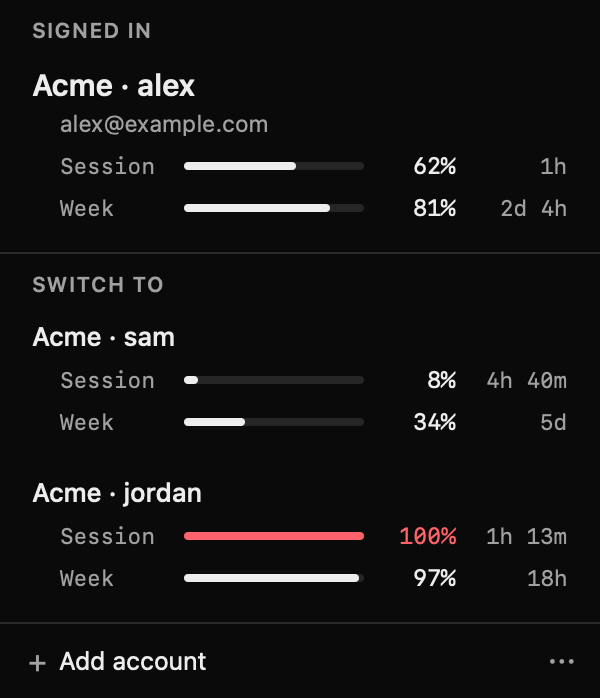
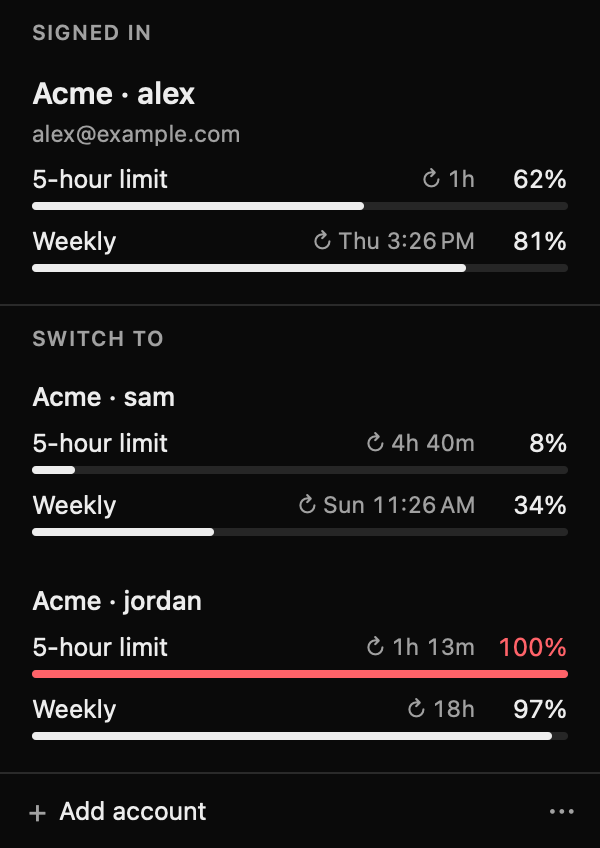
feat: lay out each limit with its reset above its bar, on one spacing scale
The panel writes each limit's name, when it resets and the percent used on
one line with the bar under it, and every account block uses the same four
spacing values. A reset within a day shows the time until it, a later one
the weekday and time.

diff --git a/Sources/ClaudeDesktopBaton/PanelView.swift b/Sources/ClaudeDesktopBaton/PanelView.swift
@@ -49,13 +49,13 @@ struct PanelView: View {
             if let signedIn = state.signedIn {
                 SectionLabel(text: "Signed in", palette: p)
                 AccountBlock(row: signedIn, actions: actions, prominent: true)
-                    .padding(.horizontal, 6).padding(.bottom, 6)
+                    .padding(.horizontal, PanelSpacing.edge).padding(.bottom, PanelSpacing.edge)
                 Rectangle().fill(p.border).frame(height: 1)
             }
             if !state.switchTo.isEmpty {
                 SectionLabel(text: "Switch to", palette: p)
             }
-            VStack(spacing: 2) {
+            VStack(spacing: PanelSpacing.tight) {
                 ForEach(state.switchTo) { row in
                     AccountBlock(row: row, actions: actions)
                 }
@@ -65,8 +65,8 @@ struct PanelView: View {
                         .frame(maxWidth: .infinity, alignment: .leading).padding(10)
                 }
             }
-            .padding(.horizontal, 6)
-            .padding(.bottom, 6)
+            .padding(.horizontal, PanelSpacing.edge)
+            .padding(.bottom, PanelSpacing.edge)
             if let update {
                 Rectangle().fill(p.border).frame(height: 1)
                 updateRow(update, p)
@@ -186,8 +186,21 @@ struct SectionLabel: View {
             .font(.system(size: 10.5, weight: .semibold)).tracking(0.6)
             .foregroundStyle(palette.muted)
             .frame(maxWidth: .infinity, alignment: .leading)
-            .padding(.horizontal, 16).padding(.top, 9).padding(.bottom, 2)
+            .padding(.horizontal, PanelSpacing.edge + PanelSpacing.inset).padding(.top, PanelSpacing.inset).padding(.bottom, PanelSpacing.tight)
     }
+}
+
+/// The panel's spacing. Every account block uses these, so the signed-in account and the others
+/// differ only in the size of the name.
+enum PanelSpacing {
+    /// The panel's edge.
+    static let edge: CGFloat = 6
+    /// Inside an account block, on every side.
+    static let inset: CGFloat = 10
+    /// Between a limit's text and its bar, a name and its email, and one block and the next.
+    static let tight: CGFloat = 4
+    /// Between a name and the first limit, and between limits.
+    static let gap: CGFloat = 8
 }
 
 struct AccountBlock: View {
@@ -199,7 +212,7 @@ struct AccountBlock: View {
 
     var body: some View {
         let p = Palette(scheme)
-        VStack(alignment: .leading, spacing: 7) {
+        VStack(alignment: .leading, spacing: 0) {
             HStack(spacing: 8) {
                 if row.isTarget { lead(p) }
                 Text(row.name).font(.system(size: prominent ? 15 : 13, weight: prominent ? .semibold : .medium))
@@ -216,13 +229,13 @@ struct AccountBlock: View {
                 Spacer(minLength: 6)
             }
             if prominent, let email = row.email {
-                Text(email).font(.system(size: 11.5)).foregroundStyle(p.muted).lineLimit(1).padding(.leading, 14).padding(.top, -4)
+                Text(email).font(.system(size: 11.5)).foregroundStyle(p.muted).lineLimit(1)
+                    .padding(.top, PanelSpacing.tight)
             }
-            meter("Session", row.session, p)
-            meter("Week", row.week, p)
+            limit("5-hour limit", row.session, p).padding(.top, PanelSpacing.gap)
+            limit("Weekly", row.week, p).padding(.top, PanelSpacing.gap)
         }
-        .padding(.vertical, 9)
-        .padding(.horizontal, 10)
+        .padding(PanelSpacing.inset)
         .background(RoundedRectangle(cornerRadius: 8).fill(hovering && !row.isCurrent && !row.isDisabled ? p.hover : .clear))
         .contentShape(Rectangle())
         .onHover { hovering = $0 }
@@ -239,9 +252,20 @@ struct AccountBlock: View {
         }
     }
 
-    private func meter(_ label: String, _ meter: Meter, _ p: Palette) -> some View {
-        HStack(spacing: 8) {
-            Text(label).font(.system(size: 11, design: .monospaced)).foregroundStyle(p.muted).frame(width: 54, alignment: .leading)
+    /// The limit's name, when it resets and the percent used on one line; its bar underneath.
+    private func limit(_ label: String, _ meter: Meter, _ p: Palette) -> some View {
+        VStack(alignment: .leading, spacing: PanelSpacing.tight) {
+            HStack(spacing: 8) {
+                Text(label).font(.system(size: 12.5)).lineLimit(1)
+                Spacer(minLength: 6)
+                if let reset = meter.reset {
+                    Text("↻ \(reset)").font(.system(size: 11.5)).monospacedDigit().foregroundStyle(p.muted).lineLimit(1)
+                }
+                // A fixed width, so every percent ends at the same place whatever the reset text is.
+                Text(meter.text).font(.system(size: 12.5)).monospacedDigit()
+                    .foregroundStyle(meter.atLimit ? p.danger : p.ink)
+                    .frame(width: 38, alignment: .trailing)
+            }
             GeometryReader { geometry in
                 ZStack(alignment: .leading) {
                     Capsule().fill(p.track)
@@ -249,16 +273,7 @@ struct AccountBlock: View {
                 }
             }
             .frame(height: 4)
-            Text(meter.text).font(.system(size: 11.5, design: .monospaced)).monospacedDigit()
-                .foregroundStyle(meter.atLimit ? p.danger : p.ink)
-                .frame(width: 38, alignment: .trailing)
-            // Time until this limit resets; the column keeps its width so every bar ends at the same place.
-            Text(meter.reset ?? "").font(.system(size: 11, design: .monospaced)).monospacedDigit()
-                .foregroundStyle(p.muted).lineLimit(1)
-                .frame(width: 48, alignment: .trailing)
-                .help(meter.reset.map { "\(label) resets in \($0)" } ?? "")
         }
-        .padding(.leading, 14)
     }
 }
 

diff --git a/Sources/BatonCore/PanelState.swift b/Sources/BatonCore/PanelState.swift
@@ -22,7 +22,7 @@ public struct Meter: Equatable, Sendable {
     public let fraction: Double
     public let text: String
     public let atLimit: Bool
-    /// Time until this limit resets, "2d 4h"; nil when unknown.
+    /// When this limit resets, as `UsageText.resetLabel` writes it; nil when unknown or already past.
     public var reset: String?
     public init(fraction: Double, text: String, atLimit: Bool, reset: String? = nil) {
         self.fraction = fraction; self.text = text; self.atLimit = atLimit; self.reset = reset
@@ -149,10 +149,14 @@ public struct PanelState: Equatable, Sendable {
         case .adding: busy = true
         }
 
-        func meter(_ bucket: Usage.Bucket?) -> Meter {
+        func meter(_ bucket: Usage.Bucket?, weekly: Bool = false) -> Meter {
             guard let bucket else { return Meter(fraction: 0, text: "—", atLimit: false) }
             return Meter(fraction: bucket.used / 100, text: UsageText.percent(bucket.used), atLimit: bucket.isAtLimit,
-                         reset: bucket.resetsAt.flatMap { $0 > now ? UsageText.until($0, from: now) : nil })
+                         reset: bucket.resetsAt.flatMap { date -> String? in
+                             guard date > now else { return nil }
+                             // The Session limit is at most five hours away; only the Week one can be days away.
+                             return weekly ? UsageText.resetLabel(date, from: now) : UsageText.until(date, from: now)
+                         })
         }
         func when(_ date: Date?) -> String {
             guard let date else { return "unknown" }
@@ -170,7 +174,7 @@ public struct PanelState: Equatable, Sendable {
             return AccountRow(id: account.accountId, name: names[account.accountId] ?? "Account \(account.accountId.prefix(8))",
                               isCurrent: account.accountId == current?.account,
                               isTarget: account.accountId == target, isDisabled: busy,
-                              session: meter(shown?.session), week: meter(shown?.week),
+                              session: meter(shown?.session), week: meter(shown?.week, weekly: true),
                               failureReason: entry?.failure?.reason,
                               tooltip: tooltip.joined(separator: "\n"), email: account.email,
                               isCLI: cli?.identity.map { $0.account == account.accountId && $0.org == account.orgId } ?? false)

diff --git a/Tests/BatonCoreTests/UsageTests.swift b/Tests/BatonCoreTests/UsageTests.swift
@@ -89,4 +89,17 @@ struct UsageTests {
         #expect(UsageSchedule.isDue(lastAttempt: now.addingTimeInterval(-61), now: now, panelOpening: true))
         #expect(!UsageSchedule.isDue(lastAttempt: now.addingTimeInterval(-30), now: now, panelOpening: true))
     }
+
+    // The panel's reset text: the time until it within a day, the weekday and time beyond that.
+    @Test func aResetWithinADayShowsTheTimeUntilItAndLaterOnesTheWeekdayAndTime() {
+        let now = Date(timeIntervalSince1970: 1_793_000_000)   // Monday 2026-10-26 07:33 UTC
+        let utc = TimeZone(identifier: "UTC")!, en = Locale(identifier: "en_US")
+
+        #expect(UsageText.resetLabel(now.addingTimeInterval(72 * 60), from: now, locale: en, timeZone: utc) == "1h 12m")
+        #expect(UsageText.resetLabel(now.addingTimeInterval(23 * 3600 + 59 * 60), from: now, locale: en, timeZone: utc) == "23h 59m")
+        let later = UsageText.resetLabel(now.addingTimeInterval(4 * 86_400), from: now, locale: en, timeZone: utc)
+        #expect(later.hasPrefix("Fri"))
+        #expect(later.contains("7:33"))
+        #expect(UsageText.resetLabel(now.addingTimeInterval(86_400), from: now, locale: en, timeZone: utc).hasPrefix("Tue"))
+    }
 }

diff --git a/Tests/BatonCoreTests/PanelStateTests.swift b/Tests/BatonCoreTests/PanelStateTests.swift
@@ -41,7 +41,8 @@ struct PanelStateTests {
         #expect(rows.map(\.name) == ["Acme · alex", "Acme · sam", "Acme · jordan"])
         #expect(rows.map(\.isCurrent) == [true, false, false])
         #expect(rows[0].session == Meter(fraction: 0.62, text: "62%", atLimit: false, reset: "1h"))
-        #expect(rows[0].week == Meter(fraction: 0.81, text: "81%", atLimit: false, reset: "1d"))
+        #expect(rows[0].week == Meter(fraction: 0.81, text: "81%", atLimit: false,
+                                      reset: UsageText.resetLabel(now.addingTimeInterval(86_400), from: now)))
     }
 
     // AC8: a reached limit turns red and shows when it resets.
@@ -62,7 +63,7 @@ struct PanelStateTests {
         let rows = state(usage: entries).rows
 
         #expect(rows[0].session.reset == nil)
-        #expect(rows[0].week.reset == "2d 4h")
+        #expect(rows[0].week.reset == UsageText.resetLabel(now.addingTimeInterval(2 * 86_400 + 4 * 3600), from: now))
         #expect(rows[1].session.reset == nil)
         #expect(rows[1].week.reset == nil)
     }

diff --git a/Sources/BatonCore/Usage.swift b/Sources/BatonCore/Usage.swift
@@ -46,6 +46,13 @@ public enum UsageText {
         return "\(Int(used.rounded()))%"
     }
 
+    /// When a reset happens, for the panel: the time until it within a day ("1h 12m"), otherwise the
+    /// weekday and time ("Thu 11:00 AM"), which is easier to read for a reset days away.
+    public static func resetLabel(_ date: Date, from now: Date, locale: Locale = .current, timeZone: TimeZone = .current) -> String {
+        guard date.timeIntervalSince(now) >= 24 * 60 * 60 else { return until(date, from: now) }
+        return date.formatted(Date.FormatStyle(locale: locale, timeZone: timeZone).weekday(.abbreviated).hour().minute())
+    }
+
     /// Time until a reset: "1h 12m", "13m", "2d 2h".
     public static func until(_ date: Date, from now: Date) -> String {
         let minutes = Int((date.timeIntervalSince(now) / 60).rounded(.up))

diff --git a/README.md b/README.md
@@ -12,7 +12,7 @@ account you switch to, like passing a baton.
 <p align="center">
   <picture>
     <source media="(prefers-color-scheme: dark)" srcset="docs/images/panel-dark.png">
-    <img src="docs/images/panel-light.png" alt="The menu bar panel: the signed-in account on top with its email, and two other accounts below, each with Session and Week usage bars, the percent used, and the time until each limit resets; one account's session limit is reached and shown in red." width="300">
+    <img src="docs/images/panel-light.png" alt="The menu bar panel: the signed-in account on top with its email, and two other accounts below, each with its 5-hour and weekly limits: the percent used, when each resets, and a bar; one account's 5-hour limit is reached and shown in red." width="300">
   </picture>
 </p>
 
@@ -31,9 +31,9 @@ account you switch to, like passing a baton.
   server, not as Code-tab entries. After a switch, the app opens each running
   one in Claude the way Claude Code's `/desktop` does, so it is listed under
   the new account and follows every later switch like any other session.
-- **Usage at a glance.** Each account shows how much of its current session
-  (5-hour) and weekly limits is used, and how long until each one resets. A
-  reached limit turns red.
+- **Usage at a glance.** Each account shows how much of its 5-hour and weekly
+  limits is used, with a bar, and when each one resets (`↻ 1h 12m`, or the
+  weekday and time for a reset days away). A reached limit turns red.
 - **Asks before stopping work.** If a Code session was active in the last two
   minutes, switching asks first, because restarting Claude stops running work.
   If a switch fails, you can put the previous account back in one click.
